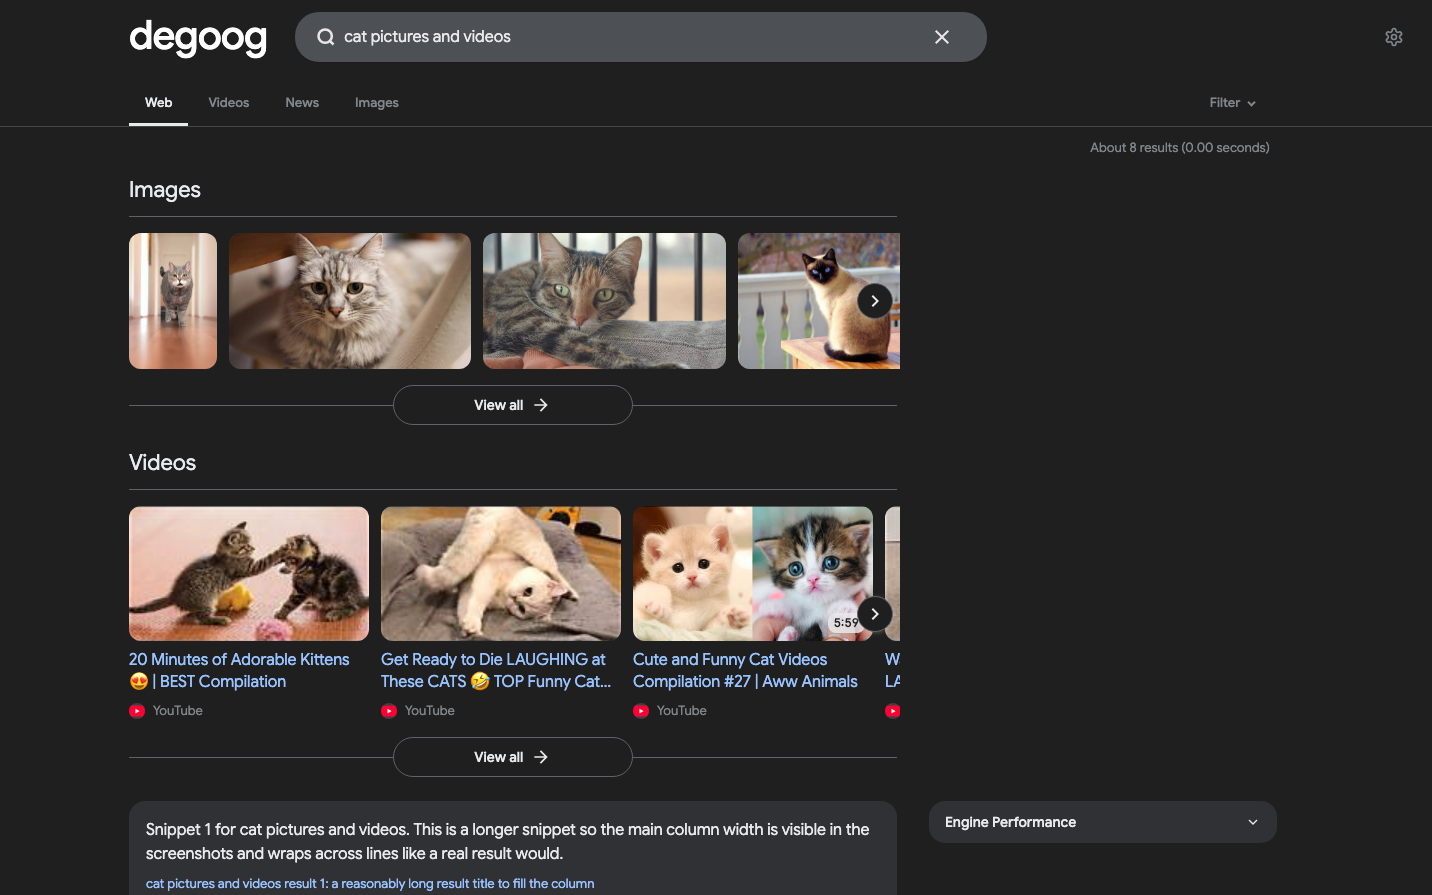
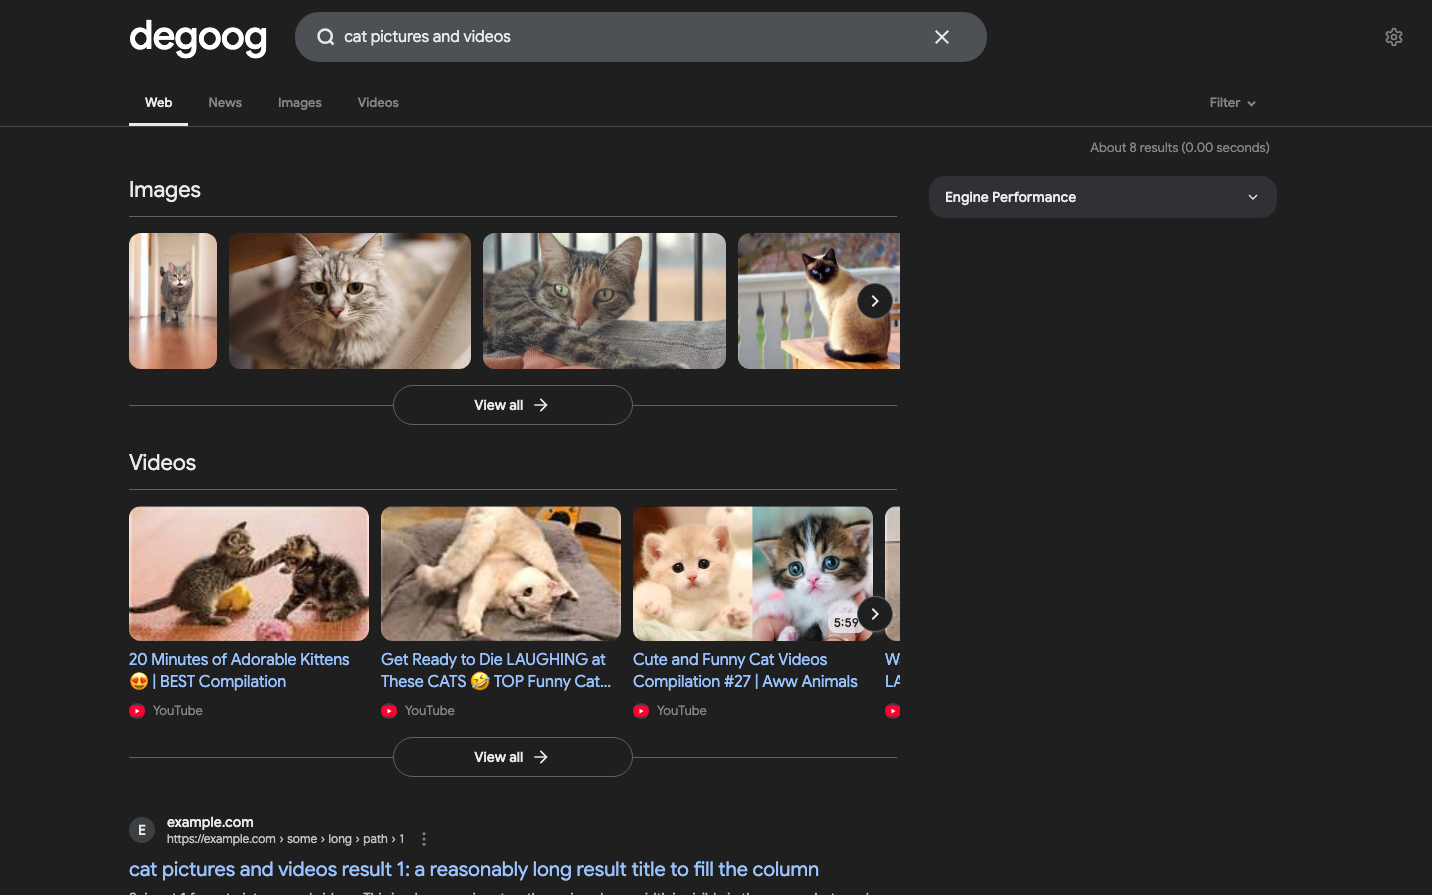
feat(plugins): sit Top Stories and the media strips in the results column
Top Stories and Image & Video Strips now default to the regular
above-results slot and mark their roots with data-slot-bare, so in
LiterallyGoogle and LiterallyApple they sit in the results column with
no card and the sidebar (knowledge panel, Engine Performance) starts
beside them, as on Google. See results about stays the only full-width
row above both columns. Other themes show the blocks in their normal
panel. Full-width and below-results stay selectable.

In the column the blocks fill the column; the rail cap now applies only
inside the native full-width wrapper, so that option still stops at the
results column's edge. The full-width order rule is unchanged.

Top Stories 1.2.0 and Image & Video Strips 1.1.0, with updated README
text and Store screenshots.

diff --git a/plugins/top-stories/card.css b/plugins/top-stories/card.css
@@ -1,6 +1,8 @@
 /* Top Stories: Google's headline block. No outer card: a heading over a
    divider, a featured story beside a short list, and a "More news" pill on a
-   divider line. card.js loads this sheet with the block, so pages without
+   divider line. The root carries data-slot-bare, so themes that support it
+   drop their panel and the block sits in the results column beside the
+   sidebar. card.js loads this sheet with the block, so pages without
    headlines never download it. */
 
 /* Full-width panels arrive in whatever order their requests finish; the block
@@ -13,10 +15,16 @@
     container-type: inline-size;
     box-sizing: border-box;
     width: 100%;
-    max-width: var(--degoog-results-rail-inline-size, 652px);
+    max-width: none;
     min-width: 0;
     color: var(--text-primary);
     animation: tstories-in 0.2s ease-out;
+}
+
+/* In the results column the block fills the column; across the full-width
+   row it stops at the column's edge so it never spans the sidebar. */
+.results-slot-panel-full-width > .tstories {
+    max-width: var(--degoog-results-rail-inline-size, 652px);
 }
 
 .tstories[hidden] {

diff --git a/plugins/media-strips/card.css b/plugins/media-strips/card.css
@@ -1,7 +1,9 @@
 /* Image & Video Strips: Google-style media rows framed like Top Stories, a
    heading over a divider and a "View all" pill on a divider line, with no
-   outer card. card.js loads this sheet with the strips, so pages without them
-   never download it. */
+   outer card. The root carries data-slot-bare, so themes that support it drop
+   their panel and the strips sit in the results column beside the sidebar.
+   card.js loads this sheet with the strips, so pages without them never
+   download it. */
 
 .mstrips {
     --mstrips-gap: 0.75rem;
@@ -12,9 +14,15 @@
     gap: 1.5rem;
     box-sizing: border-box;
     width: 100%;
-    max-width: var(--degoog-results-rail-inline-size, 652px);
+    max-width: none;
     min-width: 0;
     color: var(--text-primary);
+}
+
+/* In the results column the strips fill the column; across the full-width
+   row they stop at the column's edge so they never span the sidebar. */
+.results-slot-panel-full-width > .mstrips {
+    max-width: var(--degoog-results-rail-inline-size, 652px);
 }
 
 .mstrips[hidden] {

diff --git a/plugins/media-strips/index.js b/plugins/media-strips/index.js
@@ -4,7 +4,7 @@
 // /api/search once the web results are on screen, so the strips never hold
 // back results.
 
-let template = '<div class="mstrips" data-mstrips-query="{{QUERY}}" hidden>{{SECTIONS}}</div>';
+let template = '<div class="mstrips" data-slot-bare data-mstrips-query="{{QUERY}}" hidden>{{SECTIONS}}</div>';
 let searchTypes = null;
 let typesCache = { at: 0, types: null };
 const settings = { images: "auto", videos: "auto" };
@@ -177,8 +177,8 @@ export const slot = {
   id: "media-strips",
   name: "Image & Video Strips",
   description: "Adds Google-style image and video rows to web results when a search asks for them.",
-  position: "full-width-above-results",
-  slotPositions: ["full-width-above-results", "above-results", "below-results"],
+  position: "above-results",
+  slotPositions: ["above-results", "full-width-above-results", "below-results"],
   isClientExposed: false,
   settingsSchema: [
     {

diff --git a/plugins/top-stories/index.js b/plugins/top-stories/index.js
@@ -4,7 +4,7 @@
 // same-origin /api/search once the web results are on screen, so the block
 // never holds back results.
 
-let template = '<section class="tstories" data-tstories-query="{{QUERY}}" hidden></section>';
+let template = '<section class="tstories" data-slot-bare data-tstories-query="{{QUERY}}" hidden></section>';
 let searchTypes = null;
 let typesCache = { at: 0, types: null };
 const settings = { freshHours: 48, triggerMode: "auto" };
@@ -117,8 +117,8 @@ export const slot = {
   id: "top-stories",
   name: "Top Stories",
   description: "Shows Google-style top stories from your news engines for newsworthy searches.",
-  position: "full-width-above-results",
-  slotPositions: ["full-width-above-results", "above-results", "below-results"],
+  position: "above-results",
+  slotPositions: ["above-results", "full-width-above-results", "below-results"],
   isClientExposed: false,
   settingsSchema: [
     {

diff --git a/plugins/top-stories/template.html b/plugins/top-stories/template.html
@@ -1,4 +1,4 @@
-<section class="tstories" aria-label="{{ t:plugin-top-stories.heading }}" data-tstories-query="{{QUERY}}" data-tstories-hours="{{HOURS}}" data-tstories-explicit="{{EXPLICIT}}" data-tstories-locale="{{LOCALE}}" hidden>
+<section class="tstories" data-slot-bare aria-label="{{ t:plugin-top-stories.heading }}" data-tstories-query="{{QUERY}}" data-tstories-hours="{{HOURS}}" data-tstories-explicit="{{EXPLICIT}}" data-tstories-locale="{{LOCALE}}" hidden>
   <h2 class="tstories__title">{{ t:plugin-top-stories.heading }}</h2>
   <div class="tstories__grid"></div>
   <div class="tstories__foot">

diff --git a/plugins/media-strips/template.html b/plugins/media-strips/template.html
@@ -1,1 +1,1 @@
-<div class="mstrips" data-mstrips-query="{{QUERY}}" hidden>{{SECTIONS}}</div>
+<div class="mstrips" data-slot-bare data-mstrips-query="{{QUERY}}" hidden>{{SECTIONS}}</div>

diff --git a/README.md b/README.md
@@ -302,8 +302,10 @@ conversions, how-to questions, and searches other toolkit cards own never run
 a news search. The news search starts once the web results are on screen, so it
 never holds them up. Choose **Only searches that mention news** in Settings →
 Plugins to look only when a search says news, headlines, breaking, or latest.
-The block spans the results column above the results by default and can be
-moved into the regular above- or below-results slot.
+The block sits at the top of the results column with the sidebar beside it, as
+on Google. LiterallyGoogle and LiterallyApple show it without a card; other
+themes show it in their normal panel. It can also be moved to the full-width
+row (capped to the results column) or below the results.
 
 </details>
 
@@ -321,7 +323,9 @@ technical searches such as `photo editor`, `docker image`, `video card`, or
 search (the default), show on every web search, or stay off; each visible strip
 runs one extra search. The strips load after the web results are on screen,
 thumbnails go through degoog's image proxy, and a repeat or re-rendered search
-reuses the strips it already found.
+reuses the strips it already found. Like Top Stories, the strips sit in the
+results column beside the sidebar, without a card in LiterallyGoogle and
+LiterallyApple, and can be moved to the full-width row or below the results.
 
 </details>
 
